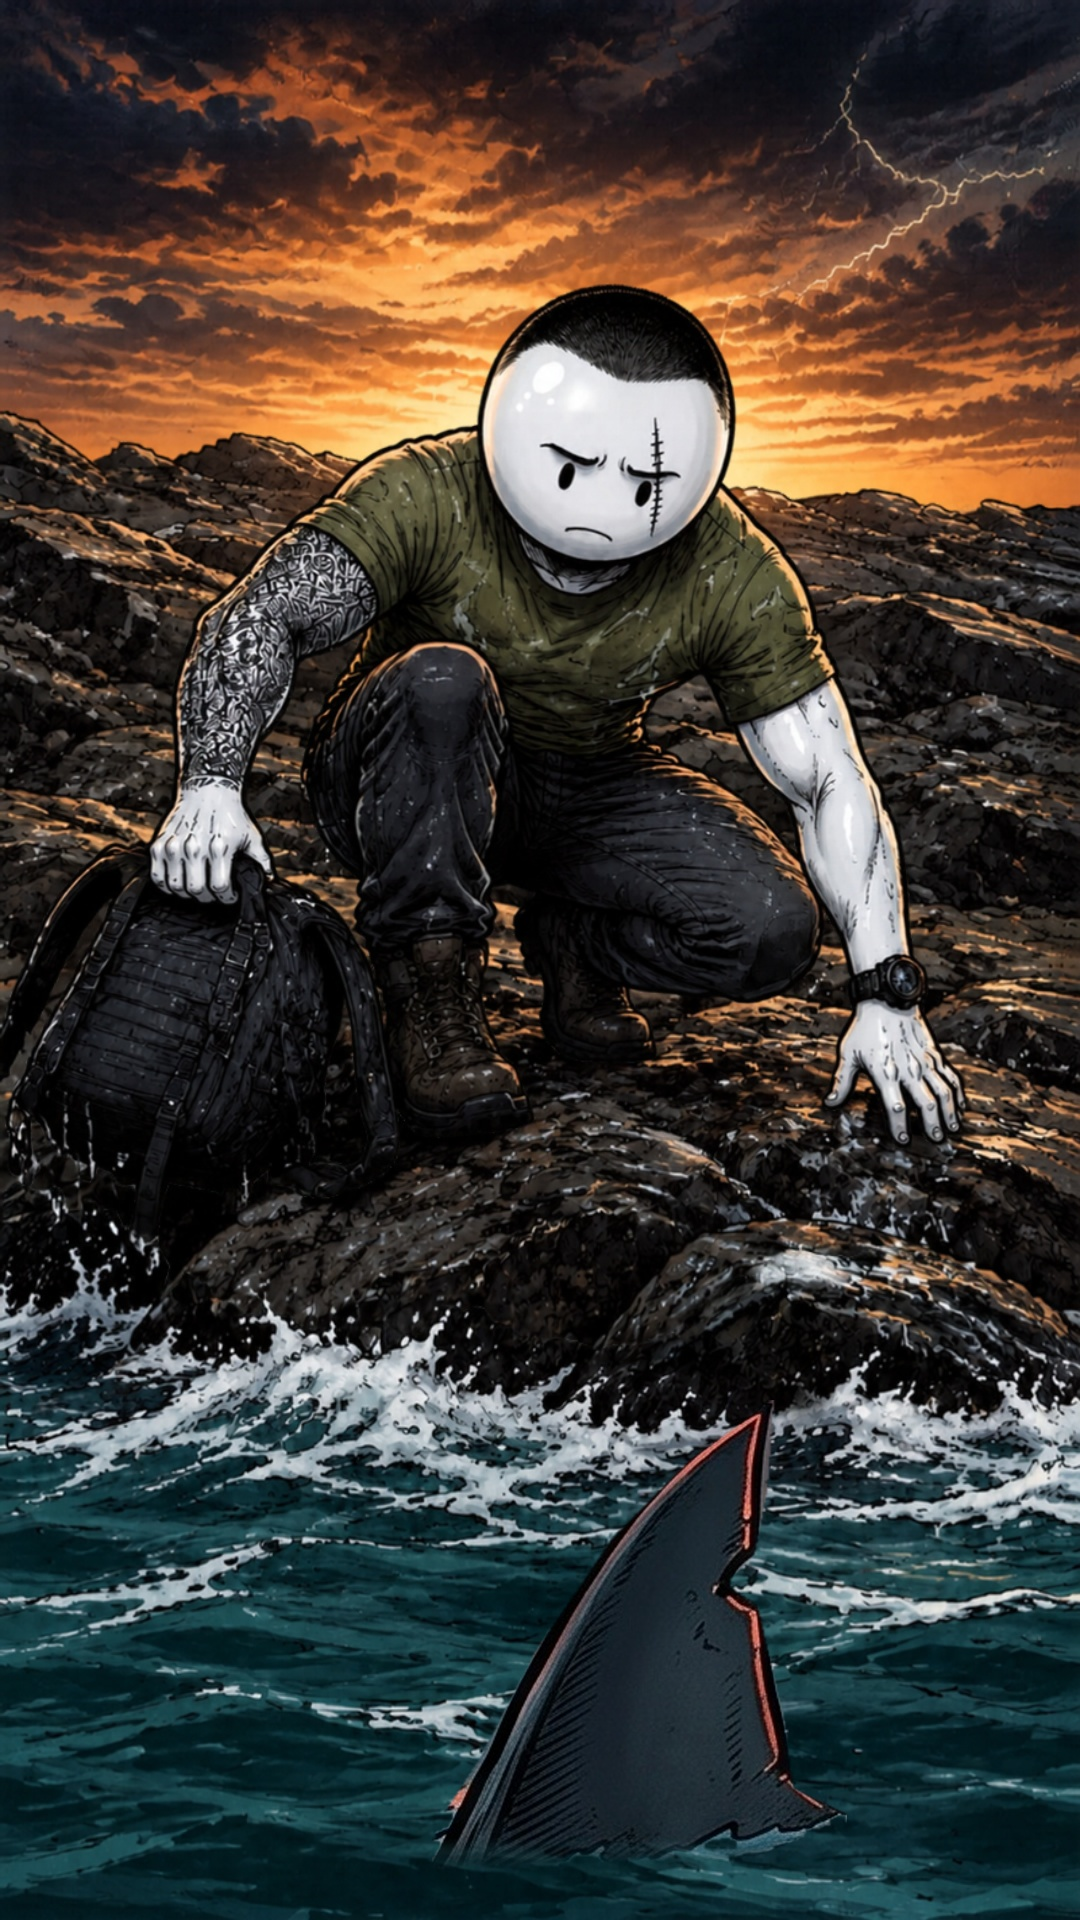
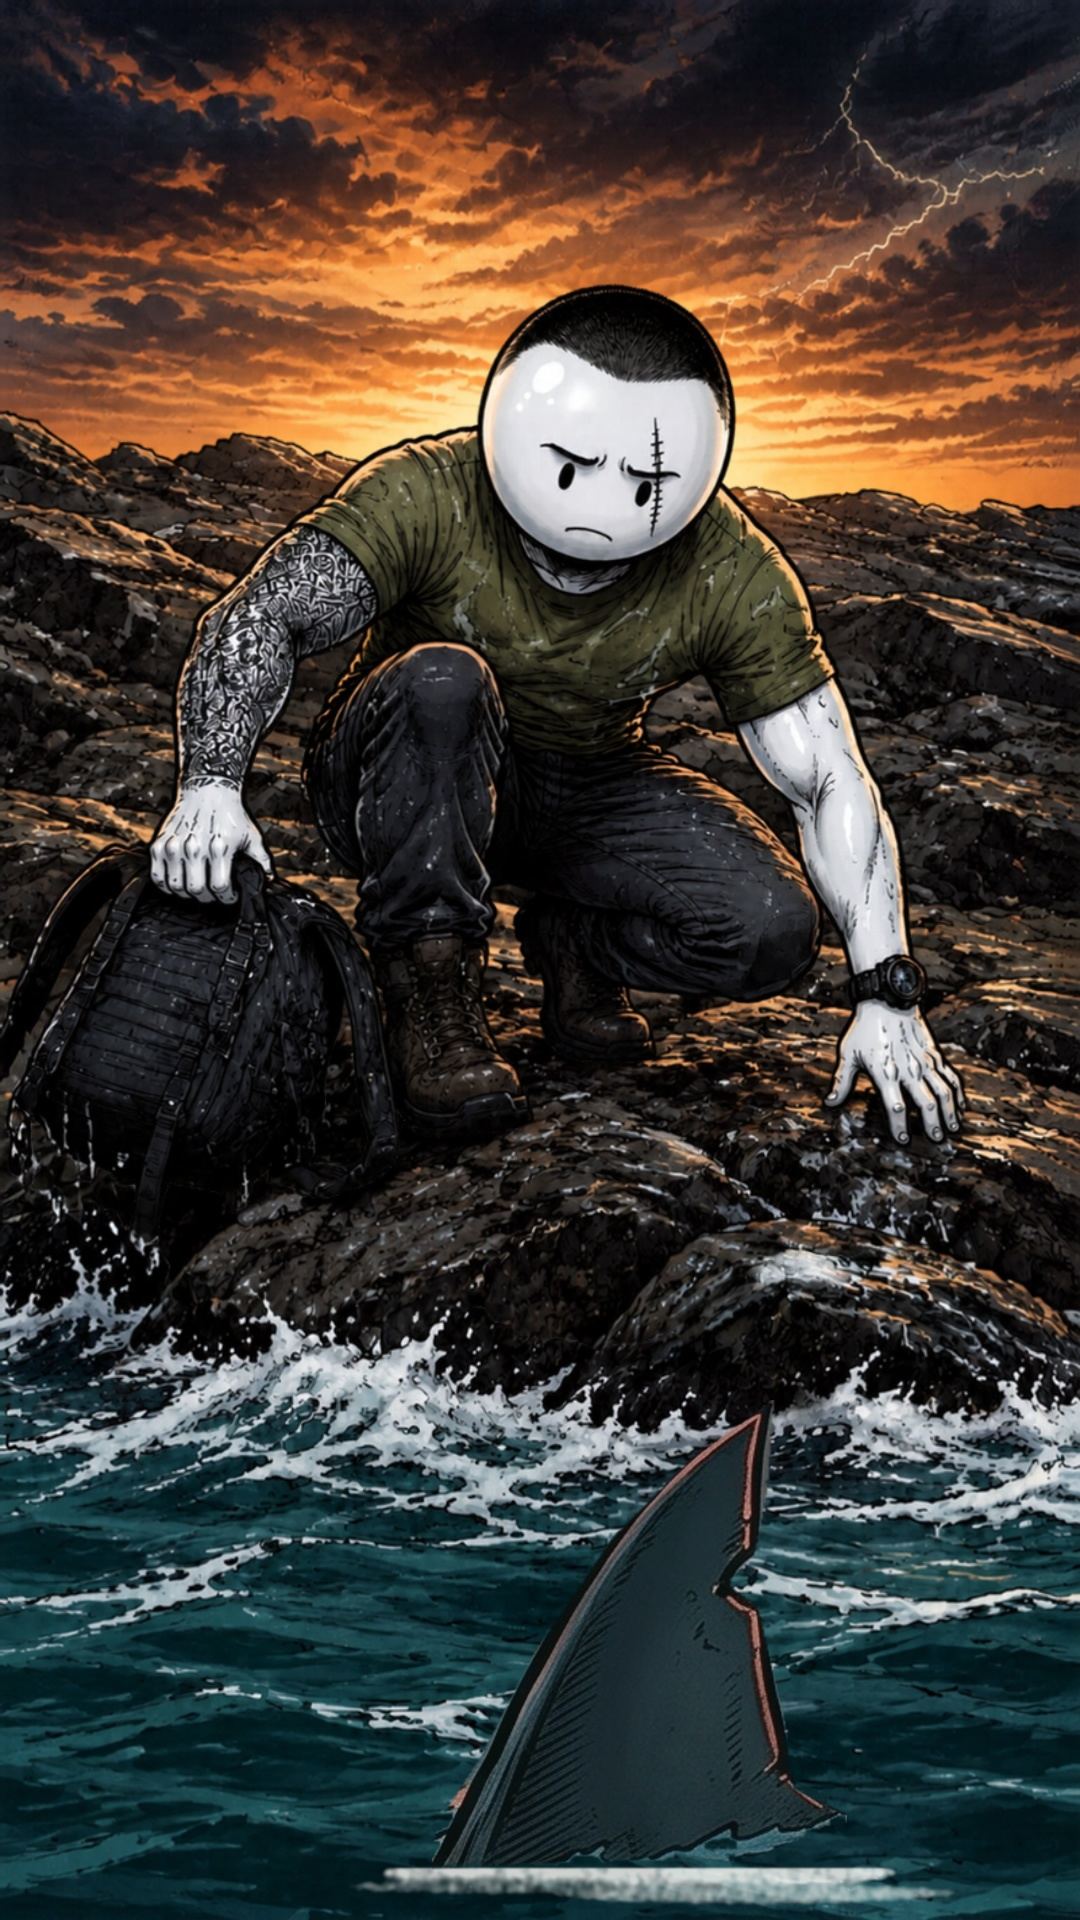
ADA 9: yüzgeçler sahne rengine uyduruldu, tabanda köpük izi
Claude-Session: https://claude.ai/code/session_014JxJGGMAcsX945kBrKhihb

diff --git a/hikaye-video/projeler/ada9/yuzgec-08.py b/hikaye-video/projeler/ada9/yuzgec-08.py
@@ -5,11 +5,11 @@ import sys, os, cv2, numpy as np
 G = os.path.join(os.path.dirname(__file__), '..', '..', 'gorseller', 'ada9')
 POLY = [(852, 944), (848, 1000), (840, 1040), (822, 1058), (842, 1072), (858, 1140), (864, 1186), (902, 1204), (840, 1228),
         (700, 1232), (640, 1236), (642, 1210), (668, 1170), (705, 1100), (752, 1030), (800, 982)]
-CFG = {  # boy: yüzgeç yüksekliği (px), taban: yüzgecin suya girdiği nokta, sil: eski küçük yüzgecin kutusu (koyu piksel silinir)
-    '07': dict(boy=330, taban=(770, 650), sil=(838, 402, 905, 458)),
-    '09a': dict(boy=400, taban=(1243, 960), sil=(1205, 730, 1290, 808)),
-    '09b': dict(boy=480, taban=(795, 1290), sil=(690, 1045, 960, 1300)),
-    '15': dict(boy=470, taban=(640, 1870), sil=None)}
+CFG = {  # boy: yüzgeç yüksekliği, taban: suya girdiği nokta, sil: eski küçük yüzgecin kutusu, rim: kırmızı kenar şiddeti, ton: sahne rengi
+    '07': dict(boy=300, taban=(790, 640), sil=(838, 402, 905, 458), rim=0.55, ton=(60, 75, 85), kopuk=0.55),
+    '09a': dict(boy=390, taban=(1243, 960), sil=(1205, 730, 1290, 808), rim=0.5, ton=(75, 80, 85), kopuk=0.7),
+    '09b': dict(boy=470, taban=(795, 1290), sil=(690, 1045, 960, 1300), rim=0.0, ton=(70, 90, 20), kopuk=0.95),
+    '15': dict(boy=470, taban=(640, 1870), sil=None, rim=0.7, ton=(70, 80, 40), kopuk=0.85)}
 
 
 def sprite():
@@ -33,11 +33,28 @@ def main():
         Vb = cv2.cvtColor(im[y0:y1, x0:x1], cv2.COLOR_BGR2HSV)[..., 2]
         d = np.zeros(im.shape[:2], np.uint8); d[y0:y1, x0:x1] = (Vb < 70).astype(np.uint8) * 255
         im = cv2.inpaint(im, cv2.dilate(d, cv2.getStructuringElement(cv2.MORPH_ELLIPSE, (7, 7))), 5, cv2.INPAINT_TELEA)
+    # renk uyumu: kırmızı kenar ışığını sahnenin tonuna çek (turkuaz sahnede söndür, günbatımında yumuşat)
+    rf = roi.astype(np.float32); bch, gch, rch = rf[..., 0], rf[..., 1], rf[..., 2]
+    rim = np.clip((rch - np.maximum(gch, bch) - 25) / 80, 0, 1)[..., None]
+    gray = rf.mean(axis=2, keepdims=True) * np.array([1.0, 0.95, 0.9], np.float32)
+    k = c.get('rim', 0.0); roi = (rf * (k * rim + (1 - rim)) + gray * ((1 - k) * rim)).astype(np.float32)
+    if 'ton' in c:
+        roi = roi * 0.82 + np.array(c['ton'], np.float32)[None, None, :] * 0.18
     h, w = roi.shape[:2]; tx = int(c['taban'][0] - w / 2); ty = int(c['taban'][1] - h)
     a = cv2.GaussianBlur(m, (0, 0), 0.9).astype(np.float32)[..., None] / 255
     # alt kenarı suya doğru yumuşakça sönsün
-    fade = np.clip((h - np.arange(h)) / (0.07 * h), 0, 1)[:, None, None]; a = a * fade
+    fade = np.clip((h - np.arange(h)) / (0.02 * h), 0, 1)[:, None, None]; a = a * fade
     f = im.astype(np.float32)
+    # suda iz: yüzgecin tabanında köpüklü V dalga + sönen halkalar (yüzgecin arkasında kalır)
+    H, W = im.shape[:2]; rng = np.random.default_rng(4)
+    nz = cv2.GaussianBlur(rng.random((H, W)).astype(np.float32), (0, 0), 2.5); nz = (nz - nz.min()) / (nz.max() - nz.min())
+    foam = np.zeros((H, W), np.float32); bx, by = c['taban']; fw = int(w * 0.62)
+    cv2.ellipse(foam, (bx, by + 2), (fw, max(6, int(h * 0.035))), 0, 0, 360, 1.0, -1)
+    cv2.ellipse(foam, (bx + int(fw * .45), by + int(h * .05)), (int(fw * .8), max(4, int(h * .022))), 0, 0, 360, .75, -1)
+    cv2.ellipse(foam, (bx - int(fw * .6), by + int(h * .035)), (int(fw * .55), max(3, int(h * .018))), 0, 0, 360, .6, -1)
+    foam = cv2.GaussianBlur(foam, (0, 0), max(2.0, h * 0.006)); foam = np.clip(foam * 1.5 + nz * 0.9 - 0.95, 0, 1)
+    foam[:by - 2, :] = 0; foam = cv2.GaussianBlur(foam, (0, 0), 1.0)[..., None] * c.get('kopuk', 0.85)
+    f = f * (1 - foam) + np.array([238, 242, 242], np.float32) * foam
     f[ty:ty + h, tx:tx + w] = f[ty:ty + h, tx:tx + w] * (1 - a) + roi.astype(np.float32) * a
     cv2.imwrite(out, np.clip(f, 0, 255).astype(np.uint8), [cv2.IMWRITE_JPEG_QUALITY, 95]); print('tamam', n, w, h)
 
